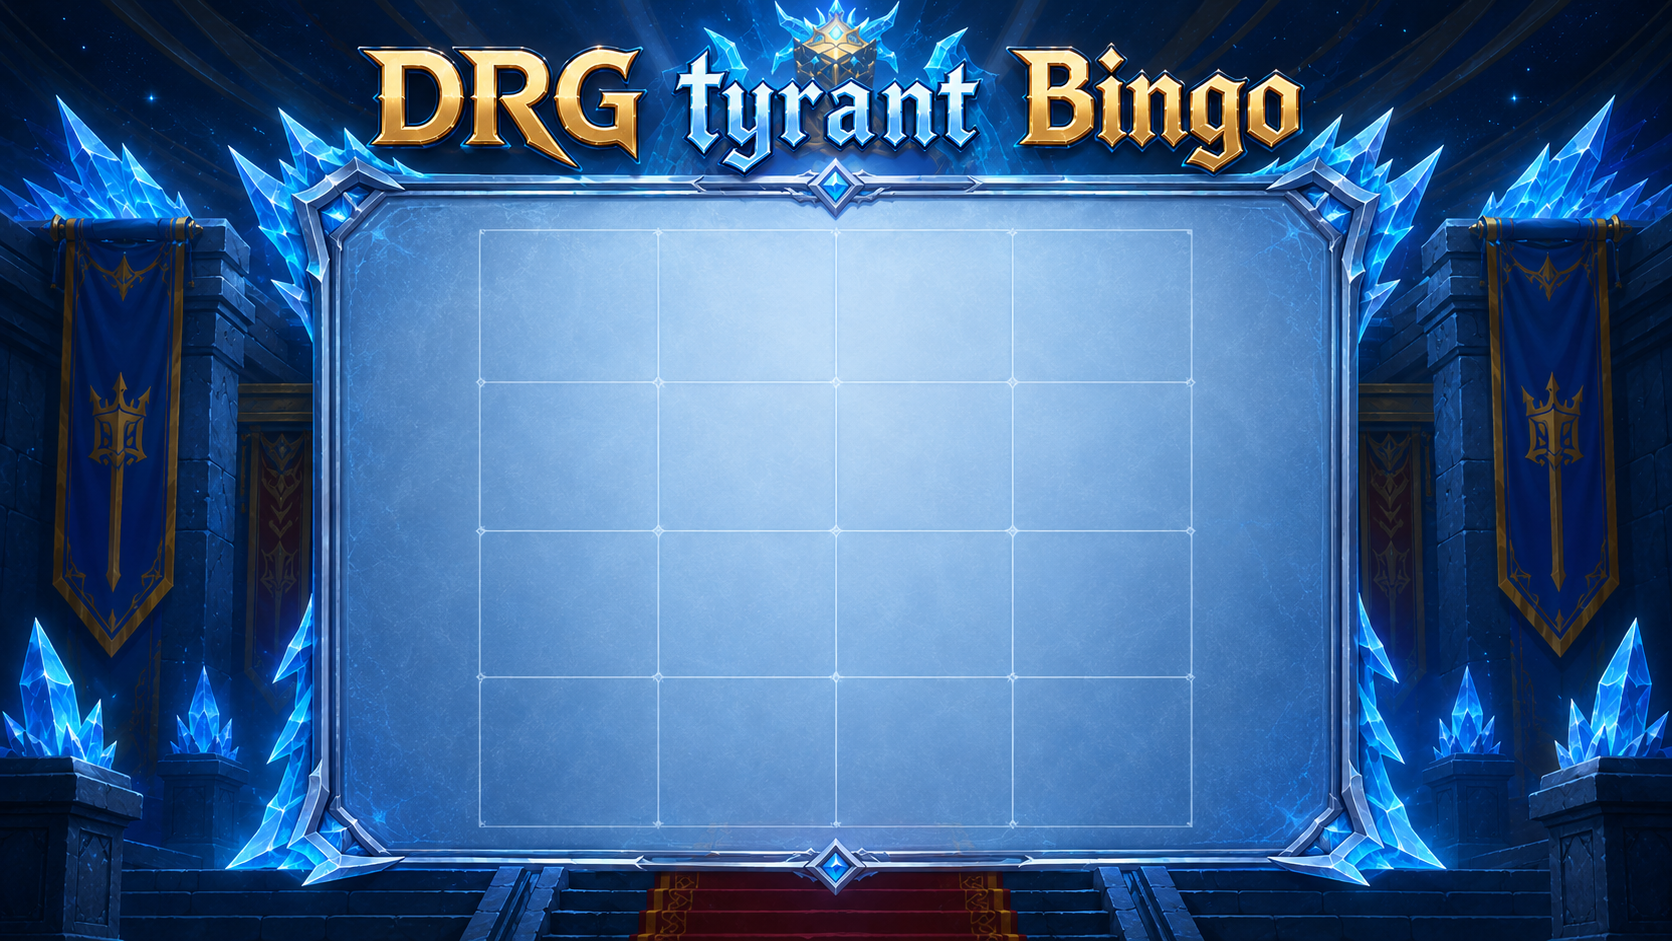
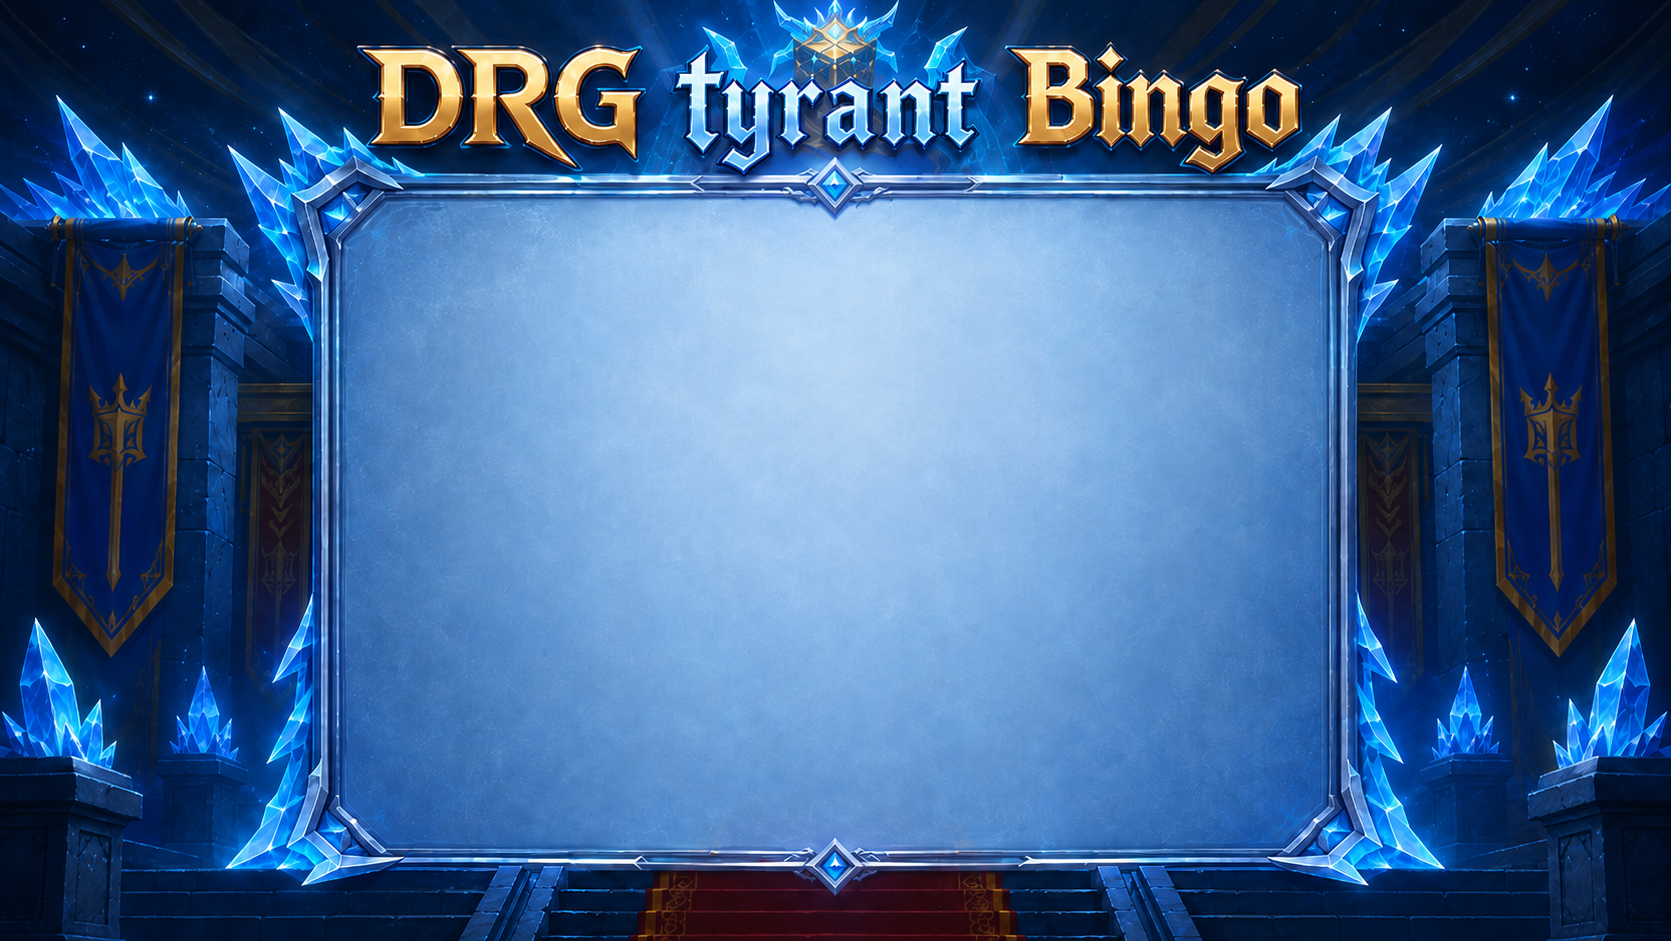
Update background image and add win popup feature

diff --git a/index.html b/index.html
@@ -104,9 +104,66 @@
             box-shadow: inset 0 0 15px rgba(255,255,255,0.4);
             text-shadow: 0 0 5px rgba(0,0,0,0.8);
         }
+
+        /* Win Popup Styles */
+        #win-overlay {
+            display: none;
+            position: fixed;
+            top: 0;
+            left: 0;
+            width: 100vw;
+            height: 100vh;
+            background: rgba(0, 0, 0, 0.85);
+            z-index: 999;
+            align-items: center;
+            justify-content: center;
+            backdrop-filter: blur(8px);
+        }
+
+        #win-popup {
+            background: linear-gradient(135deg, #0d1b2a, #1b263b);
+            border: 3px solid #00a8e8;
+            border-radius: 15px;
+            padding: 40px;
+            text-align: center;
+            box-shadow: 0 0 40px #00a8e8, inset 0 0 20px rgba(0, 168, 232, 0.4);
+            animation: popupIn 0.5s cubic-bezier(0.175, 0.885, 0.32, 1.275);
+            display: flex;
+            flex-direction: column;
+            align-items: center;
+        }
+
+        #win-popup h2 {
+            color: #ffd700;
+            font-size: 3em;
+            margin: 0 0 30px 0;
+            text-shadow: 0 0 20px #ffb703;
+            text-transform: uppercase;
+        }
+
+        #win-popup button {
+            position: relative; /* override absolute from main button */
+            top: auto;
+            left: auto;
+            transform: none;
+            margin: 0;
+        }
+
+        @keyframes popupIn {
+            0% { transform: scale(0.5); opacity: 0; }
+            100% { transform: scale(1); opacity: 1; }
+        }
     </style>
 </head>
 <body>
+    <!-- Win Popup Overlay -->
+    <div id="win-overlay">
+        <div id="win-popup">
+            <h2>You Won!</h2>
+            <button onclick="closePopupAndRegenerate()">Play Again</button>
+        </div>
+    </div>
+
     <div id="game-container">
         <h1>Bingo - Ongoing Event</h1>
         <button onclick="generateGrid()">Generate a new grid</button>
@@ -150,10 +207,23 @@
                 // Add the click action to check/uncheck
                 cellDiv.addEventListener("click", () => {
                     cellDiv.classList.toggle("checked");
+                    
+                    // Check for win condition (all 16 cells checked)
+                    const checkedCells = document.querySelectorAll('.cell.checked').length;
+                    if (checkedCells === 16) {
+                        setTimeout(() => {
+                            document.getElementById('win-overlay').style.display = 'flex';
+                        }, 400); // Small delay to let the animation finish
+                    }
                 });
 
                 container.appendChild(cellDiv);
             });
+        }
+
+        function closePopupAndRegenerate() {
+            document.getElementById('win-overlay').style.display = 'none';
+            generateGrid();
         }
 
         // 4. Generate the very first grid on page load
